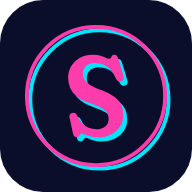
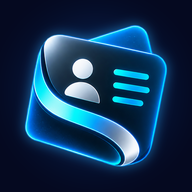
update

diff --git a/src/styles/miami.css b/src/styles/miami.css
@@ -26,6 +26,24 @@
 .mx-navlink { display: inline-flex; align-items: center; min-height: 44px; border: 0; background: none; cursor: pointer; text-decoration: none; font-weight: 800; font-size: 14px; color: var(--w); letter-spacing: .02em; }
 .mx-navlink:hover { color: var(--c); }
 .mx .lp__mark { height: 44px; }
+/* The SeYo wordmark is wider than the old one, so give the header room on phones. */
+@media (max-width: 640px) { .mx .lp__mark { height: 30px; } }
+@media (max-width: 420px) {
+  .mx .lp__mark { height: 24px; }
+  .mx-nav { gap: 6px; padding-left: 12px; padding-right: 12px; }
+  .mx nav { gap: 6px; }
+  .mx nav .lang button { min-width: 30px; padding: 0 6px; }
+  .mx nav .mx-navlink, .mx-btn--sm { font-size: 13px; }
+  .mx-btn--sm { padding-left: 11px; padding-right: 11px; }
+}
+@media (max-width: 340px) {
+  .mx .lp__mark { height: 20px; }
+  .mx-nav { padding-left: 8px; padding-right: 8px; }
+  .mx nav { gap: 4px; }
+  .mx nav .lang button { min-width: 26px; min-height: 32px; padding: 0 4px; }
+  .mx nav .mx-navlink, .mx-btn--sm { font-size: 12px; }
+  .mx-btn--sm { padding-left: 9px; padding-right: 9px; }
+}
 
 /* hero */
 .mx-hero { position: relative; display: grid; grid-template-columns: 1.1fr .9fr; gap: clamp(20px, 4vw, 56px); align-items: center; max-width: 1360px; margin: 0 auto; padding: clamp(28px, 5vw, 64px) clamp(18px, 4vw, 48px) 72px; }

diff --git a/index.html b/index.html
@@ -4,9 +4,13 @@
   <meta charset="utf-8" />
   <meta name="viewport" content="width=device-width, initial-scale=1, viewport-fit=cover" />
   <meta name="theme-color" content="#0B0E2A" />
-  <link rel="icon" href="/favicon.svg" type="image/svg+xml" />
   <link rel="icon" href="/favicon-32.png" sizes="32x32" type="image/png" />
+  <link rel="icon" href="/icon-192.png" sizes="192x192" type="image/png" />
   <link rel="apple-touch-icon" href="/apple-touch-icon.png" />
+  <meta name="apple-mobile-web-app-title" content="SeYo" />
+  <meta name="application-name" content="SeYo" />
+  <meta name="mobile-web-app-capable" content="yes" />
+  <meta name="apple-mobile-web-app-capable" content="yes" />
   <link rel="manifest" href="/manifest.webmanifest" />
   <title>SeYo | Digital business cards that look like your brand</title>
   <meta name="description" content="Build a tap-to-share digital business card with your logo, colors, fonts and links. Save-to-contacts, QR and NFC ready." />

diff --git a/src/components/Brand.tsx b/src/components/Brand.tsx
@@ -1,13 +1,12 @@
 import { Link } from 'react-router-dom';
-import onDark from '../assets/seyo-wordmark-miami-dark.svg';
-import onLight from '../assets/seyo-wordmark-miami-light.svg';
+import wordmark from '../assets/seyo-wordmark.png';
 import { APP_NAME } from '../lib/plans';
 
-/** The SeYo wordmark, linked home. The final "o" is the seal. `tone` is the background it sits on. */
-export default function Brand({ tone = 'light' }: { tone?: 'light' | 'dark' }) {
+/** The SeYo wordmark, linked home. The artwork is made for dark backgrounds, and every page that shows it is dark. */
+export default function Brand(_props: { tone?: 'light' | 'dark' }) {
   return (
     <Link to="/" className="lp__brand" aria-label={`${APP_NAME} home`}>
-      <img src={tone === 'dark' ? onDark : onLight} alt={APP_NAME} className="lp__mark" />
+      <img src={wordmark} alt={APP_NAME} className="lp__mark" />
     </Link>
   );
 }

diff --git a/docs/NAMING.md b/docs/NAMING.md
@@ -16,3 +16,10 @@ These are internal identifiers that are already deployed or stored. Renaming the
 | `selloapp.netlify.app`, repo `sello-app` | Netlify site and GitHub repo | Renaming changes the live address and the deploy connection. |
 
 If you later move to a SeYo domain or rename the Netlify site, update `SELLO_SITE_URL`, the Supabase auth redirect URLs and `VITE_PUBLIC_ORIGIN` together.
+
+## Logo and home-screen icon
+
+- `src/assets/seyo-wordmark.png` is the "SeYo" lettering from the supplied logo, cropped with a transparent background. It is made for dark backgrounds, and every page that shows it (landing header and footer, demo card bar) is dark.
+- The home-screen icon is the card symbol on a deep navy-to-blue background: `public/icon-192.png`, `icon-512.png`, `icon-maskable-512.png` (Android, extra padding so circular crops keep the whole card), `apple-touch-icon.png` (iPhone, 180px, no transparency) and `favicon-32.png`.
+- `index.html` sets the iPhone home-screen name to "SeYo" so it is not the long page title.
+- The full logo with the tagline ("Your world. One tap. Digital you.") is not on the site yet.
